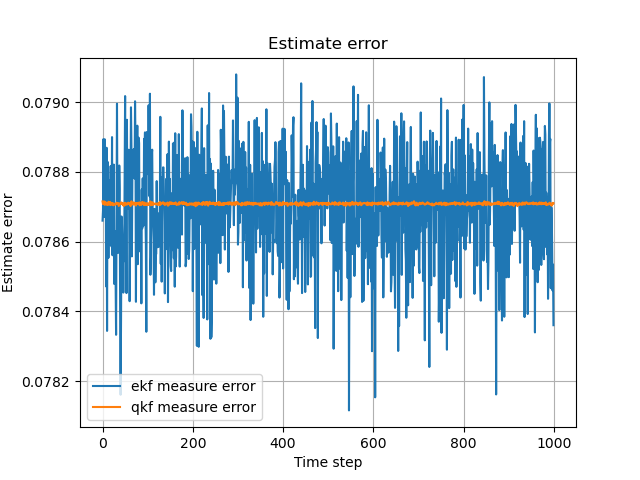
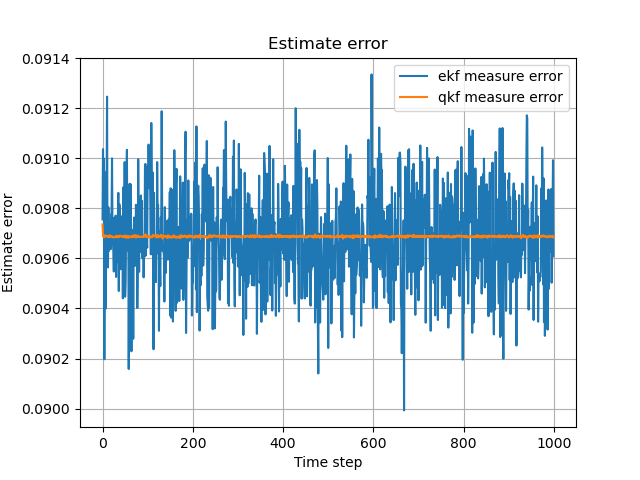
tested for more times still work :)

diff --git a/LQG_QKF/LQG_QKF.py b/LQG_QKF/LQG_QKF.py
@@ -248,21 +248,23 @@ def main():
     A = np.random.randn(n, n) * 0.8 * 1e-2
     B = np.random.randn(n, p) * 0.5 * 1e-2
     
-    F = StateDynamics(n, p , W, A, B)
+    
     C = np.random.randn(m, n)
     
     M = np.random.randn(m, n, n) * 1e-2
     V = generate_random_symmetric_matrix(m, scale=1e-2)
-    S = sensor(C, M, V)
     
     # Q, R must be symmetric positive definite matrices
     Q = generate_random_symmetric_matrix(n+n**2, scale=1.0)
     # Q = generate_random_symmetric_matrix(n, scale=1.0)
     R = generate_random_symmetric_matrix(p, scale=1.0)
-    lqg_ekf_sys = LQG_QKF(F, S, Q, R, H=1000)
+    F1 = StateDynamics(n, p , W, A, B)
+    S1 = sensor(C, M, V)
+    lqg_ekf_sys = LQG_QKF(F1, S1, Q, R, H=1000)
     err_list_ekf = lqg_ekf_sys.run_sim_ekf()
-    
-    lqg_qkf_sys = LQG_QKF(F, S, Q, R, H=1000)
+    F2 = StateDynamics(n, p , W, A, B)
+    S2 = sensor(C, M, V)
+    lqg_qkf_sys = LQG_QKF(F2, S2, Q, R, H=1000)
     err_list_qkf = lqg_qkf_sys.run_sim_qkf()
     # print("Estimate error list: ", err_list)
     plt.plot(err_list_ekf, label=f'ekf measure error')
